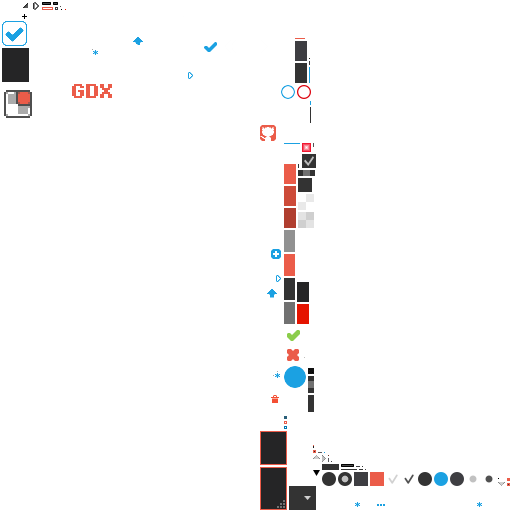
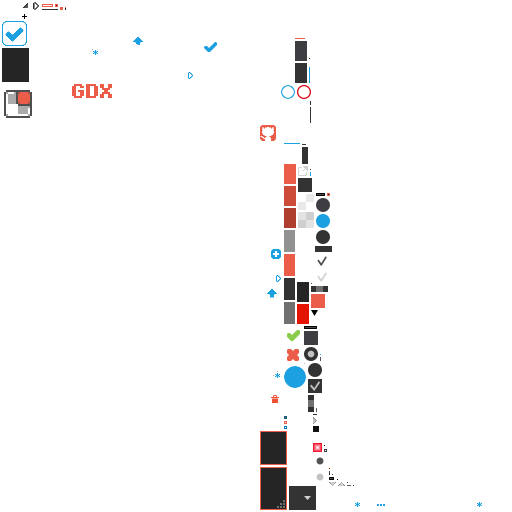
Base for expand edit button

diff --git a/core/src/com/crashinvaders/texturepackergui/views/ExpandEditTextButton.java b/core/src/com/crashinvaders/texturepackergui/views/ExpandEditTextButton.java
@@ -1,0 +1,110 @@
+package com.crashinvaders.texturepackergui.views;
+
+import com.badlogic.gdx.scenes.scene2d.Actor;
+import com.badlogic.gdx.scenes.scene2d.ui.*;
+import com.badlogic.gdx.scenes.scene2d.utils.Drawable;
+import com.badlogic.gdx.utils.Align;
+import com.badlogic.gdx.utils.Scaling;
+import com.badlogic.gdx.utils.StringBuilder;
+import com.github.czyzby.lml.parser.LmlParser;
+import com.github.czyzby.lml.parser.impl.tag.actor.TableLmlTag;
+import com.github.czyzby.lml.parser.impl.tag.builder.TextLmlActorBuilder;
+import com.github.czyzby.lml.parser.tag.LmlActorBuilder;
+import com.kotcrab.vis.ui.widget.VisLabel;
+
+public class ExpandEditTextButton extends Button {
+
+    private final Style style;
+    private final VisLabel label;
+    private Cell labelCell;
+
+    public ExpandEditTextButton(String text, Skin skin, String styleName) {
+        this(text, skin.get(styleName, Style.class));
+    }
+
+    public ExpandEditTextButton(String text, Style style) {
+        super(style);
+        this.style = style;
+
+        label = new VisLabel(text, style.labelStyle);
+        label.setAlignment(Align.left);
+        label.setEllipsis(true);
+
+        labelCell = add(label).left();
+
+        if (style.expandIcon != null) {
+            Image image = new Image(style.expandIcon);
+            image.setScaling(Scaling.none);
+
+            add(image).padLeft(2f).padRight(-1f).growX().right();
+        }
+    }
+
+    @Override
+    public Style getStyle() {
+        return style;
+    }
+
+    public VisLabel getLabel() {
+        return label;
+    }
+
+    public Cell getLabelCell() {
+        return labelCell;
+    }
+
+    public void setText(CharSequence newText) {
+        label.setText(newText);
+    }
+
+    public StringBuilder getText() {
+        return label.getText();
+    }
+
+    public static class Style extends ButtonStyle {
+        public VisLabel.LabelStyle labelStyle;
+        /** Optional. */
+        public Drawable expandIcon;
+
+        public Style() {
+        }
+
+        public Style(Drawable up, Drawable down, Drawable checked, VisLabel.LabelStyle labelStyle) {
+            super(up, down, checked);
+            this.labelStyle = labelStyle;
+        }
+
+        public Style(Style style) {
+            super(style);
+            this.labelStyle = style.labelStyle;
+        }
+    }
+
+    public static class LmlTag extends TableLmlTag {
+
+        public LmlTag(LmlParser parser, com.github.czyzby.lml.parser.tag.LmlTag parentTag, java.lang.StringBuilder rawTagData) {
+            super(parser, parentTag, rawTagData);
+        }
+
+        @Override
+        protected TextLmlActorBuilder getNewInstanceOfBuilder() {
+            return new TextLmlActorBuilder();
+        }
+
+        @Override
+        protected Actor getNewInstanceOfActor(final LmlActorBuilder builder) {
+            return getNewInstanceOfActor((TextLmlActorBuilder)builder);
+        }
+
+        protected Actor getNewInstanceOfActor(final TextLmlActorBuilder builder) {
+            return new ExpandEditTextButton(builder.getText(), getSkin(builder), builder.getStyleName());
+        }
+    }
+
+    public static class LmlTagProvider implements com.github.czyzby.lml.parser.tag.LmlTagProvider {
+        @Override
+        public com.github.czyzby.lml.parser.tag.LmlTag create(final LmlParser parser, final com.github.czyzby.lml.parser.tag.LmlTag parentTag, final java.lang.StringBuilder rawTagData) {
+            return new LmlTag(parser, parentTag, rawTagData);
+        }
+    }
+}

diff --git a/core/src/com/crashinvaders/texturepackergui/controllers/main/MainController.java b/core/src/com/crashinvaders/texturepackergui/controllers/main/MainController.java
@@ -6,6 +6,7 @@ import com.badlogic.gdx.graphics.Pixmap;
 import com.badlogic.gdx.graphics.Texture;
 import com.badlogic.gdx.scenes.scene2d.Actor;
 import com.badlogic.gdx.scenes.scene2d.Stage;
+import com.badlogic.gdx.scenes.scene2d.ui.Button;
 import com.badlogic.gdx.scenes.scene2d.utils.ChangeListener;
 import com.badlogic.gdx.tools.texturepacker.TexturePacker;
 import com.badlogic.gdx.utils.Align;
@@ -50,6 +51,7 @@ import java.math.BigDecimal;
 @SuppressWarnings("WeakerAccess")
 @View(id = "main", value = "lml/main.lml", first = true)
 public class MainController implements ActionContainer, ViewResizer {
+    private static final String LOG = MainController.class.getSimpleName();
 
     @Inject InterfaceService interfaceService;
     @Inject ModelService modelService;
@@ -366,6 +368,15 @@ public class MainController implements ActionContainer, ViewResizer {
             case "cboOutputFormat": settings.outputFormat = (String) value; break;
             case "cboPngCompression": onPngCompressionTypeChanged(); break;
         }
+    }
+
+    @LmlAction("onScalesBtnClick") void onScalesBtnClick(Button scalesButton) {
+        if (!initialized) return;
+
+        PackModel pack = getSelectedPack();
+        if (pack == null) return;
+
+
     }
     //endregion
 

diff --git a/core/src/com/crashinvaders/texturepackergui/config/AppLmlSyntax.java b/core/src/com/crashinvaders/texturepackergui/config/AppLmlSyntax.java
@@ -4,6 +4,7 @@ import com.crashinvaders.texturepackergui.config.attributes.*;
 import com.crashinvaders.texturepackergui.config.tags.FixedFloatSpinnerLmlTagProvider;
 import com.crashinvaders.texturepackergui.config.tags.FixedIntSpinnerLmlTagProvider;
 import com.crashinvaders.texturepackergui.config.tags.ShrinkContainerLmlTag;
+import com.crashinvaders.texturepackergui.views.ExpandEditTextButton;
 import com.crashinvaders.texturepackergui.views.canvas.Canvas;
 import com.github.czyzby.lml.vis.parser.impl.VisLmlSyntax;
 
@@ -17,6 +18,7 @@ public class AppLmlSyntax extends VisLmlSyntax {
         addTagProvider(new FixedIntSpinnerLmlTagProvider(), "intSpinner");
         addTagProvider(new FixedFloatSpinnerLmlTagProvider(), "floatSpinner");
         addTagProvider(new ShrinkContainerLmlTag.Provider(), "shrinkContainer");
+        addTagProvider(new ExpandEditTextButton.LmlTagProvider(), "expandEditTextButton");
     }
 
     @Override
